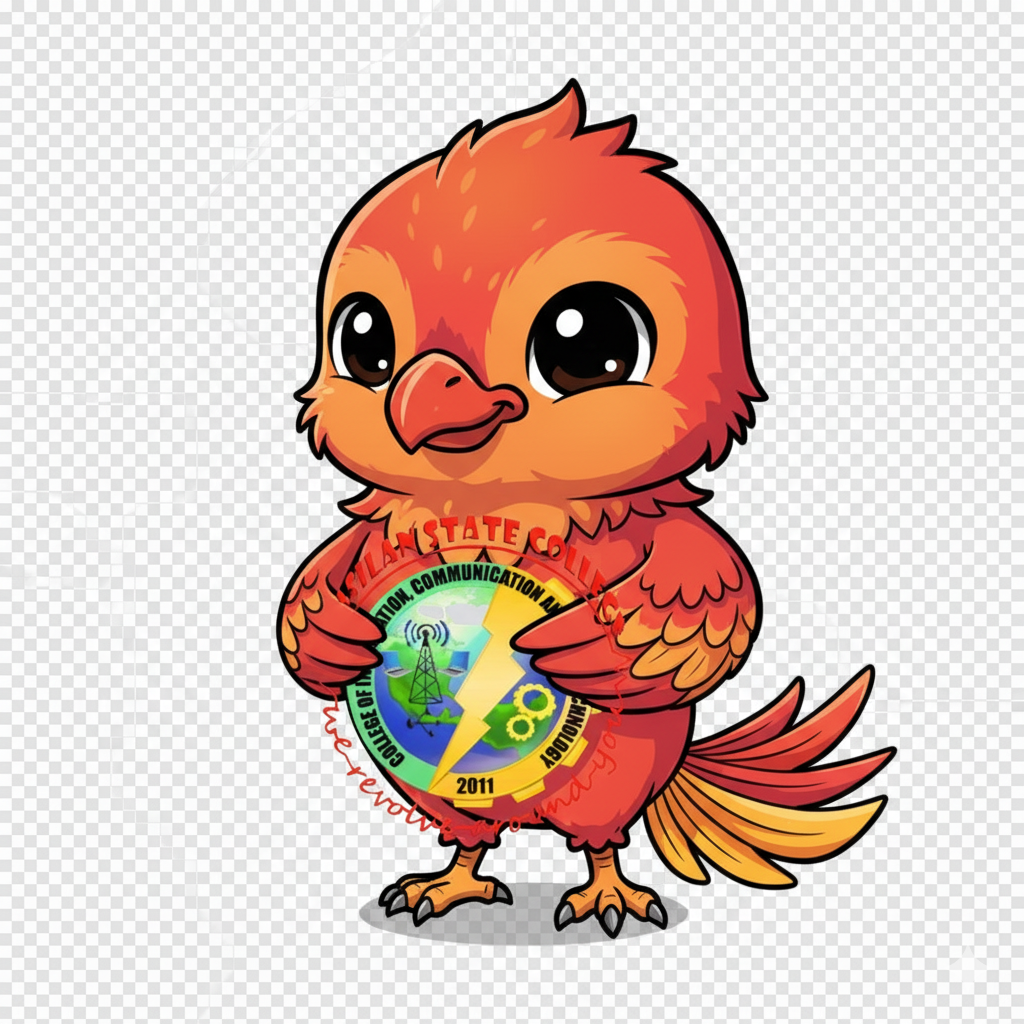
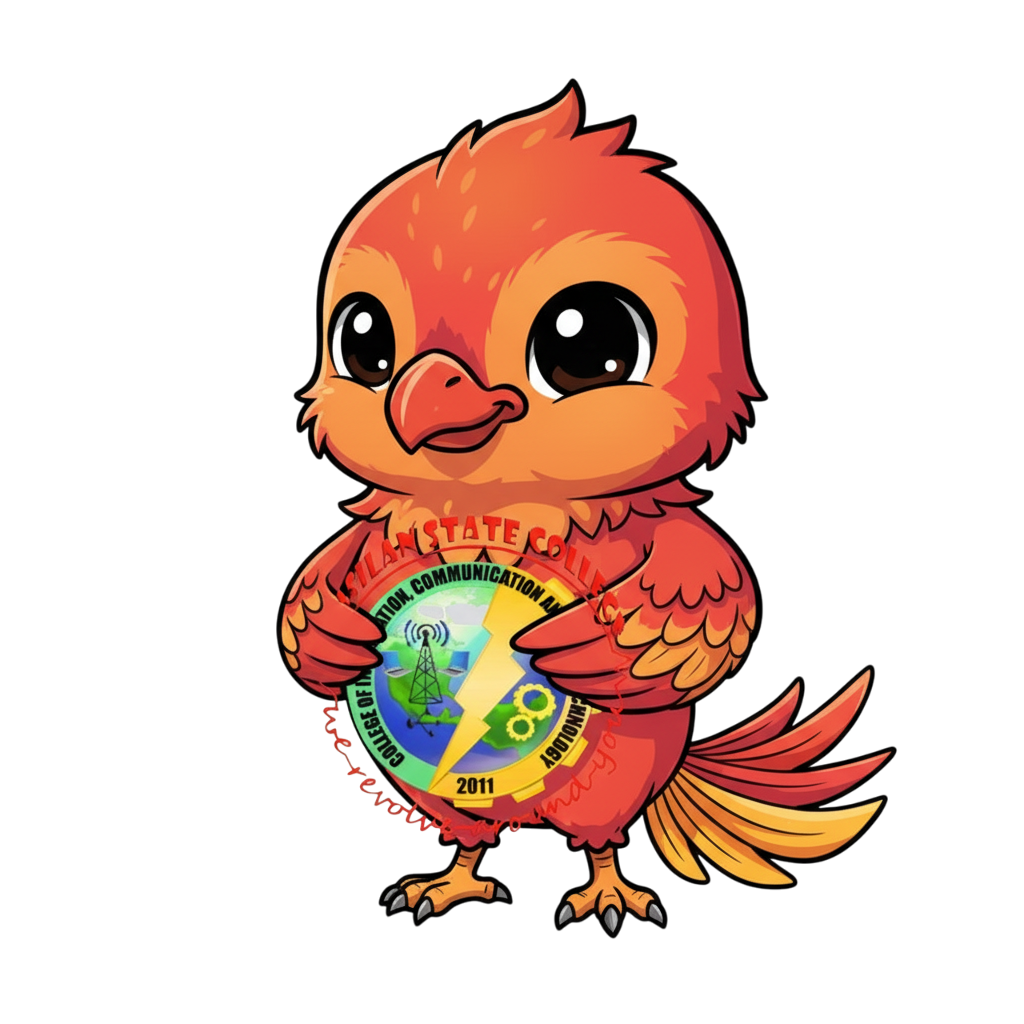
second commit,some changes

diff --git a/tv/index.php b/tv/index.php
@@ -4,7 +4,7 @@ include("../includes/db.php");
 // Clean up messages older than 3 hours to keep content fresh
 $conn->query("DELETE FROM messages WHERE created_at < DATE_SUB(NOW(), INTERVAL 3 HOUR) AND (status='approved' OR approved=1)");
 
-// Fetch all approved messages for display
+// Fetch all approved messages for rotation logic
 $result = $conn->query("SELECT * FROM messages WHERE (status='approved' OR approved=1) AND created_at >= DATE_SUB(NOW(), INTERVAL 3 HOUR) ORDER BY created_at DESC LIMIT 1000");
 $messages = [];
 while ($row = $result->fetch_assoc()) {
@@ -43,49 +43,6 @@ $count = count($messages);
                         Messages automatically expire after 3 hours to keep content fresh.
                     </p>
                 </div>
-            <?php else: ?>
-                <?php foreach ($messages as $message): ?>
-                    <article class="message-card">
-                        <div class="message-content">
-                            <div class="message-text">
-                                <?php echo htmlspecialchars($message['message']); ?>
-                            </div>
-                            <div class="message-meta">
-                                <div class="sender-info">
-                                    <?php if ($message['is_anonymous']): ?>
-                                        <span class="anonymous-badge">
-                                            <i class="fas fa-user-secret"></i> Anon
-                                        </span>
-                                    <?php else: ?>
-                                        <span class="sender-name" title="<?php echo htmlspecialchars($message['student_name']); ?>">
-                                            <?php echo htmlspecialchars($message['student_name']); ?>
-                                        </span>
-                                    <?php endif; ?>
-                                    <?php if ($message['course']): ?>
-                                        <span class="course-badge" title="<?php echo htmlspecialchars($message['course']); ?>">
-                                            <?php echo htmlspecialchars($message['course']); ?>
-                                        </span>
-                                    <?php endif; ?>
-                                    <span class="year-badge">
-                                        <?php echo htmlspecialchars($message['year_level']); ?>
-                                    </span>
-                                </div>
-                                <div class="message-time">
-                                    <?php
-                                        $time_diff = time() - strtotime($message['created_at']);
-                                        if ($time_diff < 60) {
-                                            echo 'now';
-                                        } elseif ($time_diff < 3600) {
-                                            echo floor($time_diff / 60) . 'm';
-                                        } else {
-                                            echo floor($time_diff / 3600) . 'h';
-                                        }
-                                    ?>
-                                </div>
-                            </div>
-                        </div>
-                    </article>
-                <?php endforeach; ?>
             <?php endif; ?>
         </main>
 
@@ -100,5 +57,136 @@ $count = count($messages);
             </div>
         </footer>
     </div>
+
+    <script>
+        const messagesContainer = document.getElementById('messages-container');
+        let allMessages = <?php echo json_encode($messages); ?>;
+        let currentIndex = 0;
+
+        const messagesPerPage = () => {
+            const containerWidth = messagesContainer.offsetWidth;
+            const containerHeight = messagesContainer.offsetHeight;
+            const gap = 16;
+            const minCardWidth = 250; 
+            const minCardHeight = 100;
+            
+            const numColumns = Math.max(1, Math.floor(containerWidth / (minCardWidth + gap)));
+            const numRows = Math.max(1, Math.floor(containerHeight / (minCardHeight + gap)));
+            
+            return numColumns * numRows;
+        };
+        
+        const renderMessages = (messagesToDisplay) => {
+            if (messagesToDisplay.length === 0) {
+                messagesContainer.innerHTML = `
+                    <div class="empty-state">
+                        <div class="empty-icon"></div>
+                        <h2 class="empty-title">Awaiting Messages</h2>
+                        <p class="empty-subtitle">
+                            The Phoenix Freedom Wall is ready to display your messages.
+                            Share your thoughts and watch them appear here for everyone to see.
+                            Messages automatically expire after 3 hours to keep content fresh.
+                        </p>
+                    </div>`;
+                return;
+            }
+
+            messagesContainer.innerHTML = '';
+            messagesToDisplay.forEach((message, index) => {
+                const isAnonymous = message.is_anonymous == 1;
+                const nameHtml = isAnonymous ?
+                    `<span class="anonymous-badge"><i class="fas fa-user-secret"></i> Anon</span>` :
+                    `<span class="sender-name" title="${htmlspecialchars(message.student_name)}">${htmlspecialchars(message.student_name)}</span>`;
+                
+                const courseHtml = message.course ?
+                    `<span class="course-badge" title="${htmlspecialchars(message.course)}">${htmlspecialchars(message.course)}</span>` :
+                    '';
+
+                const timeDiff = Math.floor((new Date().getTime() - new Date(message.created_at).getTime()) / 1000);
+                const timeHtml = timeDiff < 60 ? 'now' : 
+                                 (timeDiff < 3600 ? `${Math.floor(timeDiff / 60)}m` : 
+                                 `${Math.floor(timeDiff / 3600)}h`);
+
+                const messageHtml = `
+                    <article class="message-card" style="animation-delay: ${index * 0.05}s">
+                        <div class="message-content">
+                            <div class="message-text">
+                                ${htmlspecialchars(message.message)}
+                            </div>
+                            <div class="message-meta">
+                                <div class="sender-info">
+                                    ${nameHtml}
+                                    ${courseHtml}
+                                    <span class="year-badge">
+                                        ${htmlspecialchars(message.year_level)}
+                                    </span>
+                                </div>
+                                <div class="message-time">
+                                    ${timeHtml}
+                                </div>
+                            </div>
+                        </div>
+                    </article>`;
+                messagesContainer.insertAdjacentHTML('beforeend', messageHtml);
+            });
+        };
+
+        const rotateMessages = () => {
+            const numMessages = allMessages.length;
+            const limit = messagesPerPage();
+
+            if (numMessages <= limit) {
+                renderMessages(allMessages);
+                return;
+            }
+
+            messagesContainer.style.opacity = '0';
+            setTimeout(() => {
+                const end = currentIndex + limit;
+                let messagesToDisplay = allMessages.slice(currentIndex, end);
+                if (messagesToDisplay.length < limit) {
+                    messagesToDisplay = messagesToDisplay.concat(allMessages.slice(0, limit - messagesToDisplay.length));
+                }
+                
+                renderMessages(messagesToDisplay);
+                messagesContainer.style.opacity = '1';
+                currentIndex = end >= numMessages ? 0 : end;
+            }, 500);
+        };
+
+        const fetchNewMessages = async () => {
+            try {
+                const response = await fetch('api/messages.php');
+                const newMessages = await response.json();
+                allMessages = newMessages;
+                document.getElementById('message-count').textContent = `Displaying ${allMessages.length} Messages`;
+                rotateMessages();
+            } catch (error) {
+                console.error("Failed to fetch messages:", error);
+            }
+        };
+        
+        const htmlspecialchars = (str) => {
+            if (typeof str !== 'string') {
+                return '';
+            }
+            return str.replace(/&/g, '&amp;')
+                      .replace(/</g, '&lt;')
+                      .replace(/>/g, '&gt;')
+                      .replace(/"/g, '&quot;')
+                      .replace(/'/g, '&#039;');
+        };
+        
+        document.addEventListener('DOMContentLoaded', () => {
+            renderMessages(allMessages.slice(0, messagesPerPage()));
+            // Fetch messages more frequently to keep it live, but rotate slower for readability
+            setInterval(fetchNewMessages, 20000); 
+            setInterval(rotateMessages, 15000);
+        });
+
+        window.addEventListener('resize', () => {
+            rotateMessages();
+        });
+    </script>
 </body>
 </html>

diff --git a/index.php b/index.php
@@ -430,7 +430,7 @@ if ($_SERVER["REQUEST_METHOD"] == "POST") {
     <div class="container py-5">
         <div class="phoenix-header">
             <div class="phoenix-icon">
-                <img src="assets/cictt.png" alt="Phoenix Logo" class="phoenix-logo">
+                <img src="assets/web.png" alt="Phoenix Logo" class="phoenix-logo">
             </div>
             <h1 class="phoenix-title">CICTT PHOENIX</h1>
             <p class="phoenix-subtitle">FREEDOM WALL</p>
